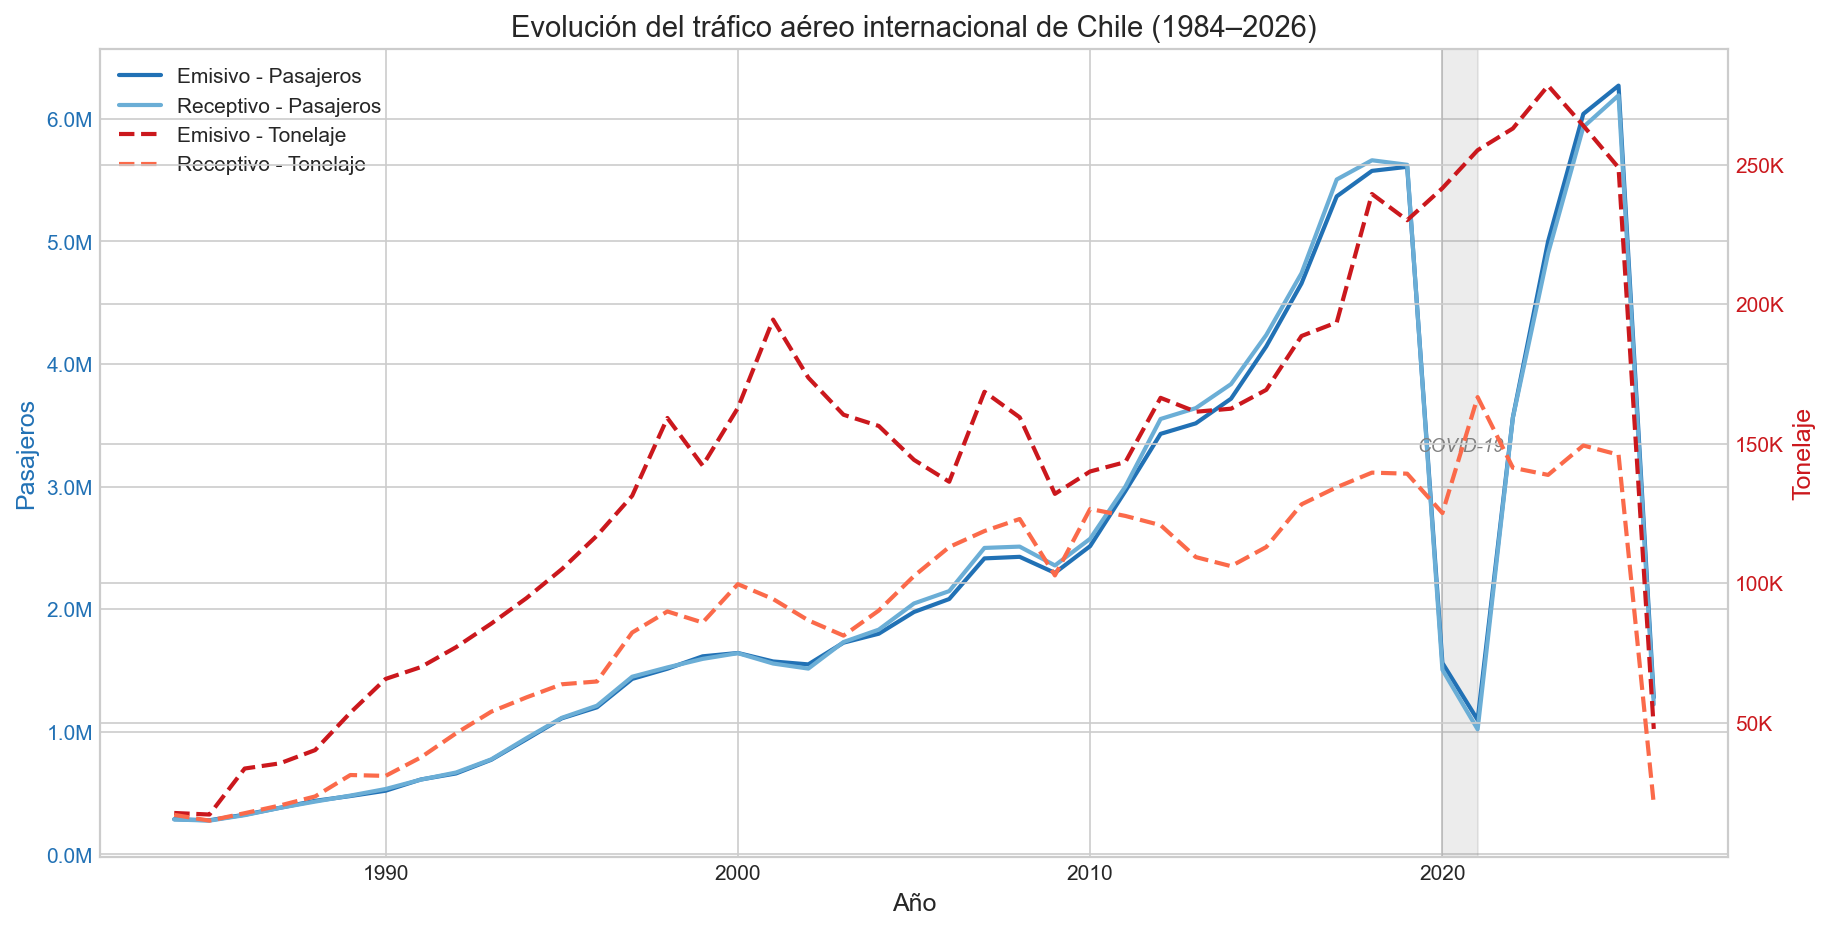
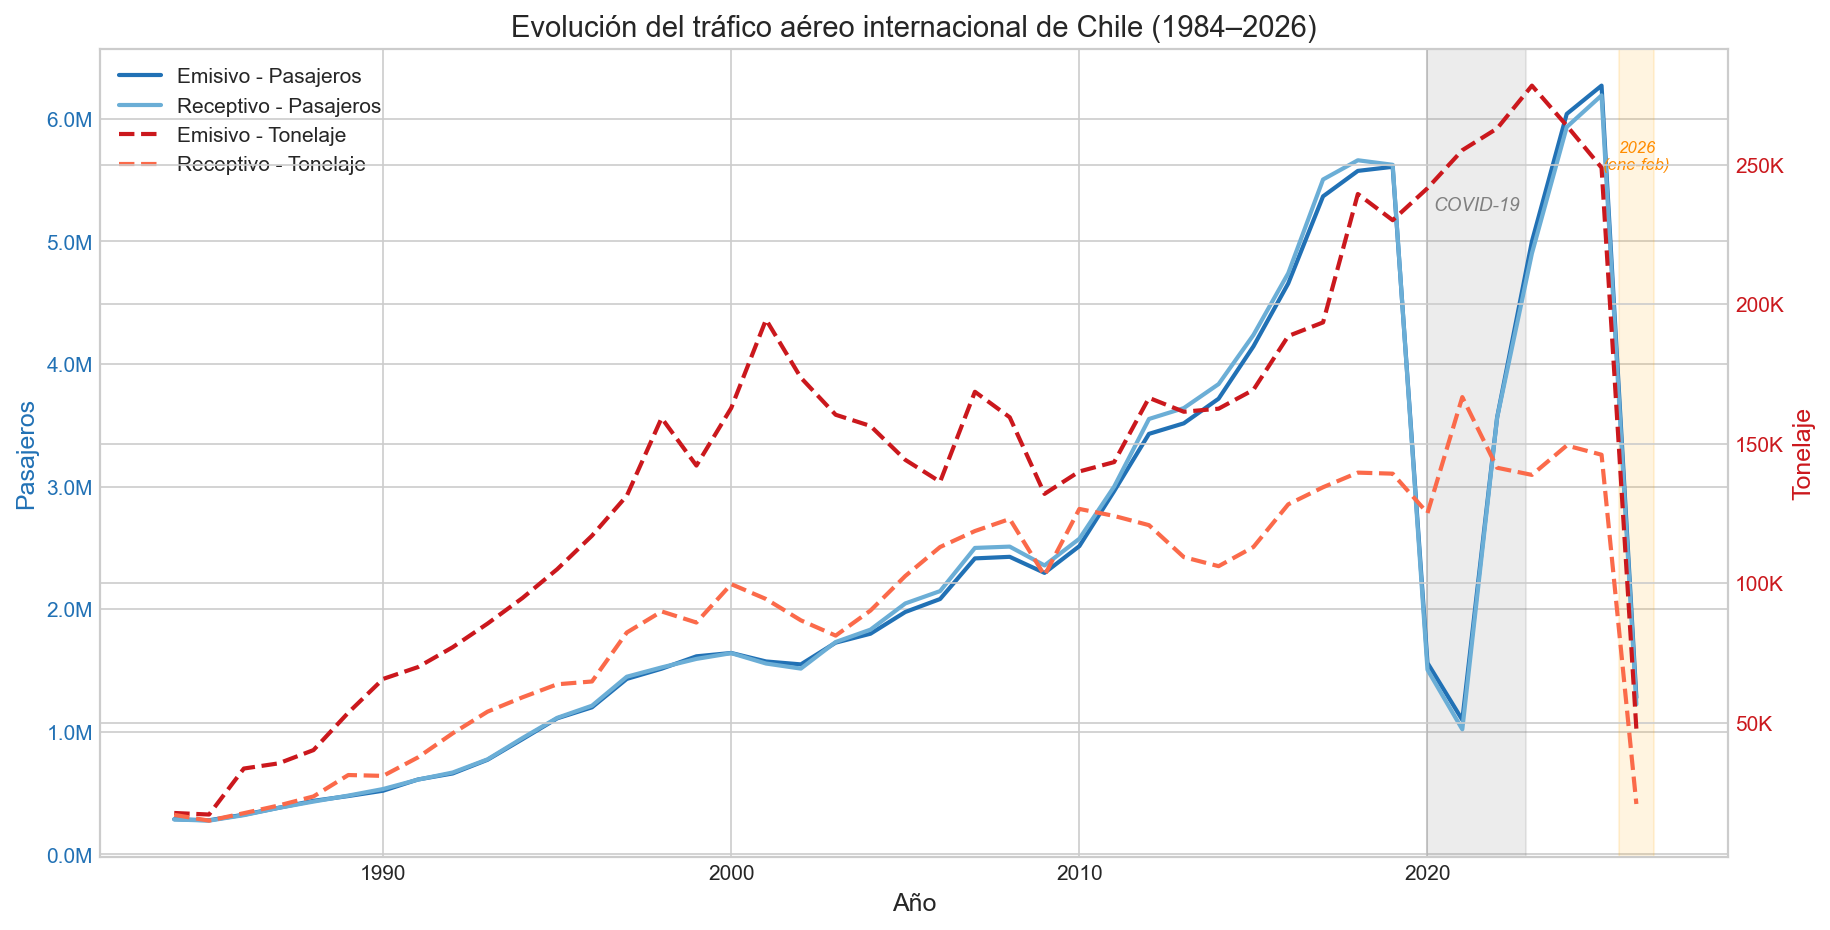
fix: extender zona COVID en gráfico total traffic y detectar año incompleto

diff --git a/scripts/analyze_traffic.py b/scripts/analyze_traffic.py
@@ -146,10 +146,23 @@ def chart_01_total_traffic(all_data: dict):
     lines2, labels2 = ax2.get_legend_handles_labels()
     ax1.legend(lines1 + lines2, labels1 + labels2, loc="upper left", framealpha=0.9)
 
-    # Anotar COVID
-    ax1.axvspan(2020, 2021, alpha=0.15, color="gray", label="COVID-19")
-    ax1.text(2020.5, ax1.get_ylim()[1] * 0.5, "COVID-19", ha="center",
+    # Anotar COVID (restricciones hasta ~oct 2022)
+    ax1.axvspan(2020, 2022.83, alpha=0.15, color="gray", label="COVID-19")
+    ax1.text(2021.4, ax1.get_ylim()[1] * 0.8, "COVID-19", ha="center",
              fontsize=9, color="gray", fontstyle="italic")
+
+    # Detectar año incompleto al final de la serie
+    all_periods = get_periods(all_data["emisivo_destinos_pasajeros"])
+    last_year = all_periods[-1][0]
+    first_year = all_periods[0][0]
+    months_in_last_year = [mo for yr, mo in all_periods if yr == last_year]
+
+    if len(months_in_last_year) < 12 and last_year != first_year:
+        ax1.axvspan(last_year - 0.5, last_year + 0.5, alpha=0.12, color="orange")
+        first_mo = MONTH_NAMES[min(months_in_last_year)].lower()
+        last_mo = MONTH_NAMES[max(months_in_last_year)].lower()
+        ax1.text(last_year, ax1.get_ylim()[1] * 0.85, f"{last_year}\n({first_mo}-{last_mo})",
+                 ha="center", fontsize=8, color="darkorange", fontstyle="italic")
 
     savefig(fig, "01_total_traffic")
 
